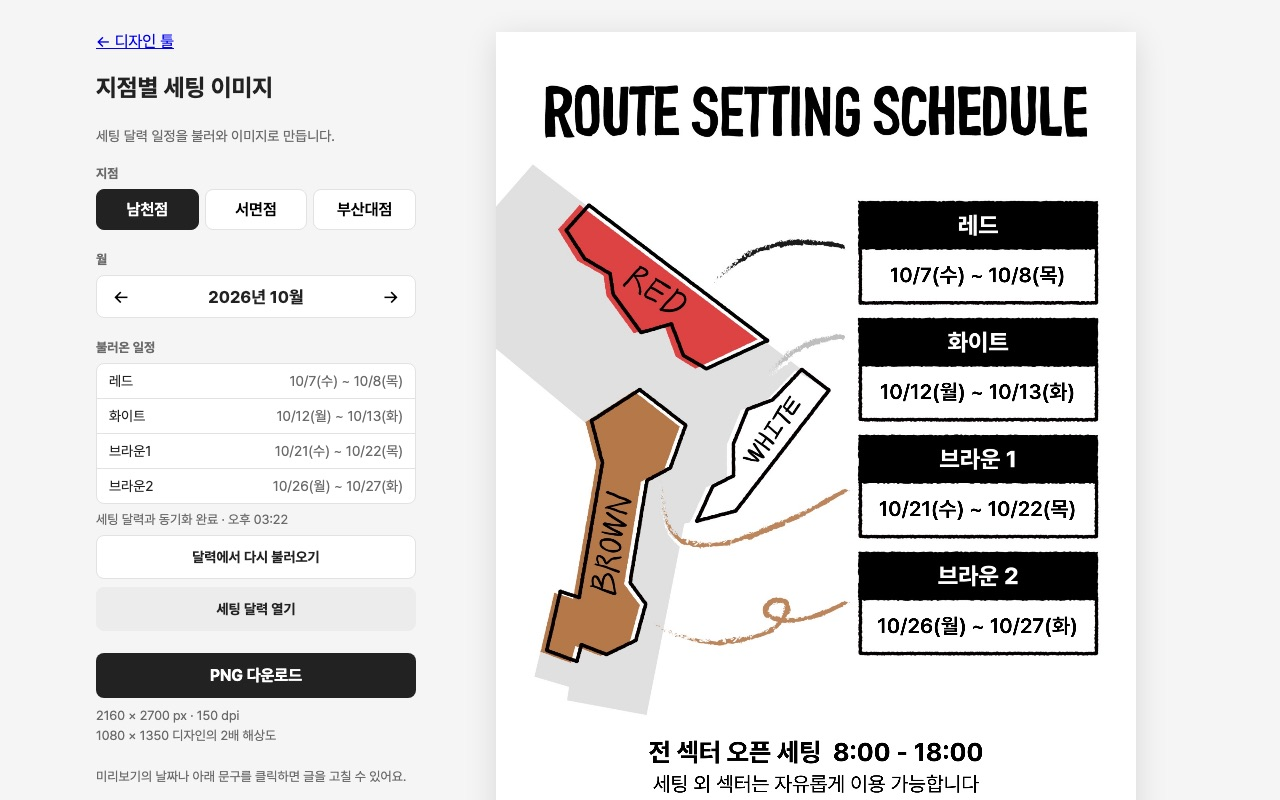
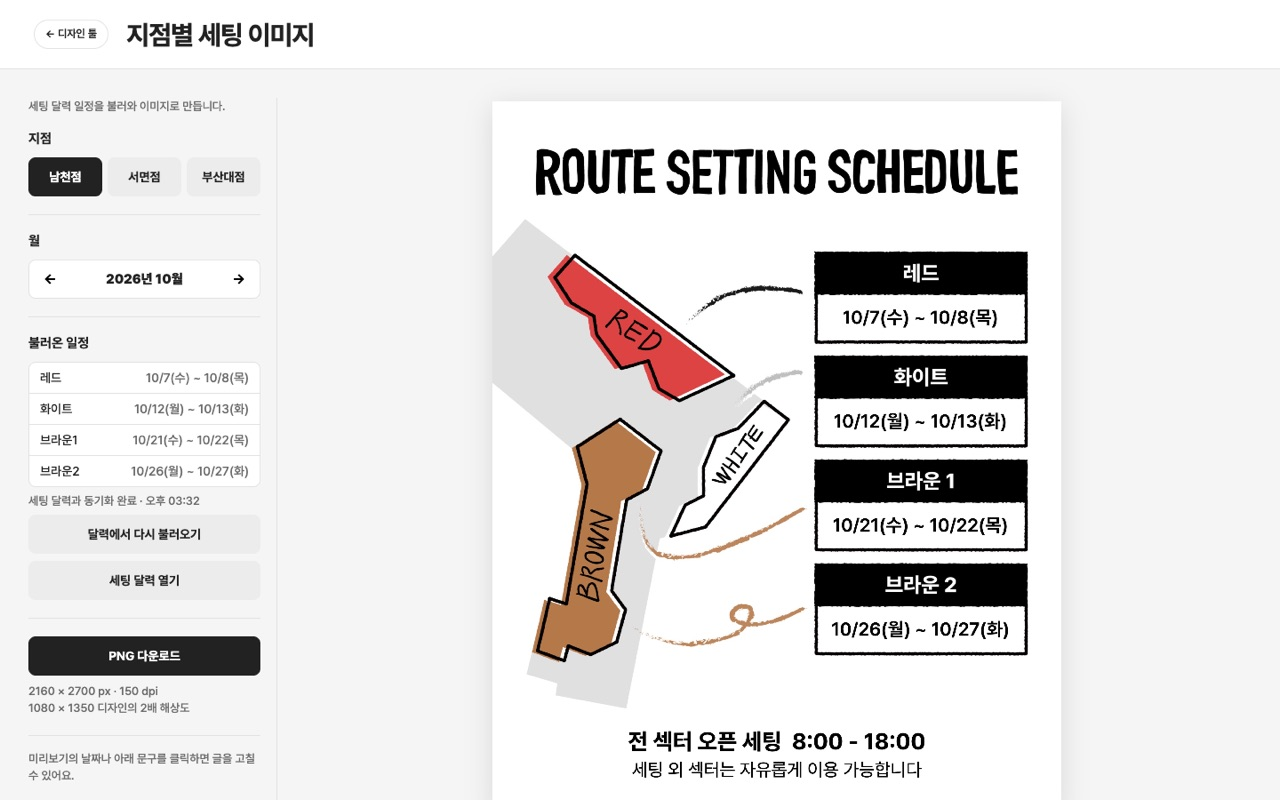
ui.css에 공통 머리말·크기 규칙 추가, 썸네일 갱신

diff --git a/ui.css b/ui.css
@@ -14,8 +14,17 @@
   --wr-danger:#b42318;
   --wr-danger-soft:#fbecea;
   --wr-radius:8px;
+  --wr-sidebar-w:280px;      /* 왼쪽 설정 영역 폭 */
+  --wr-sidebar-w-mid:240px;  /* 761~1100px 화면 */
+  --wr-control-h:44px;       /* 입력칸·버튼 높이 */
   --wr-font:Pretendard,-apple-system,BlinkMacSystemFont,"Apple SD Gothic Neo",sans-serif;
 }
+
+/* 공통 머리말 (세팅 달력 머리말 기준) */
+.wr-header{display:flex;align-items:center;gap:20px;min-height:78px;padding:16px 38px;background:var(--wr-surface);border-bottom:1px solid var(--wr-line);color:var(--wr-ink);font-family:var(--wr-font)}
+.wr-header h1{margin:0;font-size:30px;font-weight:700;letter-spacing:-1px;line-height:1.2;white-space:nowrap}
+@media(max-width:760px){.wr-header{gap:12px;padding:16px 20px;flex-wrap:wrap}.wr-header h1{font-size:28px}}
+@media print{.wr-header{display:none!important}}
 
 /* 모든 도구 맨 위의 '도구 모음으로' 링크 */
 .wr-home{display:inline-flex;align-items:center;gap:6px;padding:7px 12px;border:1px solid var(--wr-line);border-radius:999px;background:var(--wr-surface);color:var(--wr-ink);font:600 12px/1.4 var(--wr-font);text-decoration:none;white-space:nowrap}
